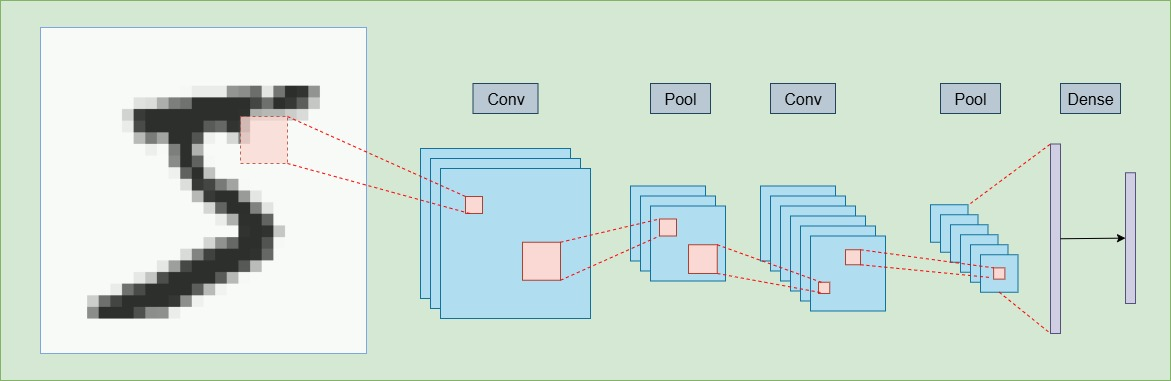
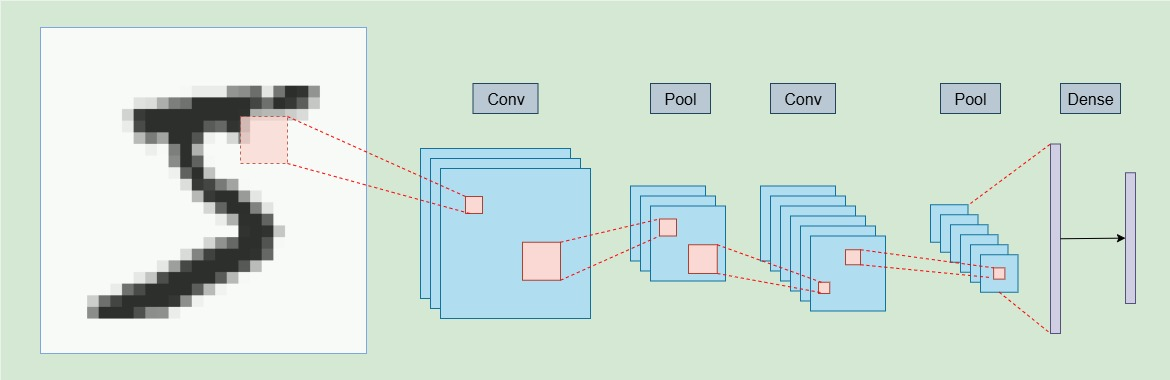
Transformer introduction

diff --git a/docs/trans_transformer.html b/docs/trans_transformer.html
@@ -8,6 +8,14 @@
     <title>Translate text with Transformer</title>
     <link href="https://cdn.jsdelivr.net/npm/bootstrap@5.3.0/dist/css/bootstrap.min.css" rel="stylesheet">
     <link href="article_style.css" rel="stylesheet">
+    <style>
+        .image-container img {
+            display: inline-block;
+            width: 300px;
+            margin-right: 10px;
+            vertical-align: middle;
+        }
+  </style>
 </head>
 
 <body>
@@ -24,11 +32,14 @@
 
                 <p>This tutorial demonstrates how to create and train a sequence-to-sequence Transformer model to translate Portuguese into English. The Transformer was originally proposed in <a href="transformer_paper.html">"Attention is all you need"</a> by Vaswani et al. (2017).</p>
 
-                <p>Transformers are deep neural networks that replace CNNs and RNNs with self-attention. Self-attention allows Transformers to easily transmit information across the input sequences.</p>
+                <p>Transformers are deep neural networks that replace CNNs and RNNs with <a href="trans_transformer.html#self-attention">self-attention</a> . Self-attention allows Transformers to easily transmit information across the input sequences.</p>
 
-                <p>As explained in the Google AI Blog post:</p>
+                <p>As explained in the <a href="https://research.google/blog/transformer-a-novel-neural-network-architecture-for-language-understanding/">Google AI Blog post</a> :</p>
 
                 <p class="comment">Neural networks for machine translation typically contain an encoder reading the input sentence and generating a representation of it. A decoder then generates the output sentence word by word while consulting the representation generated by the encoder. The Transformer starts by generating initial representations, or embeddings, for each word... Then, using self-attention, it aggregates information from all of the other words, generating a new representation per word informed by the entire context, represented by the filled balls. This step is then repeated multiple times in parallel for all words, successively generating new representations.</p>
+
+                <img src="res/07/transform20fps.gif" alt="Applying the Transformer to Machine Translation" width="600">
+                <p style="text-align: center; color: #555555;">Figure 1 - Applying the Transformer to Machine Translation</p>
 
                 <p>That's a lot to digest, the goal of this tutorial is to break it down into easy to understand parts. In this tutorial you will:</p>
 
@@ -40,19 +51,29 @@
                     <li><p>Export the model.</p></li>
                 </ul>
 
-                <p>To get the most out of this tutorial, it helps if you know about the basics of text generation and attention mechanisms.</p>
+                <p>To get the most out of this tutorial, it helps if you know about <a href="lstm_and_gru.html#language_model">the basics of text generation</a> and attention mechanisms.</p>
 
-                <p>A Transformer is a sequence-to-sequence encoder-decoder model similar to the model in the NMT with attention tutorial. A single-layer Transformer takes a little more code to write, but is almost identical to that encoder-decoder RNN model. The only difference is that the RNN layers are replaced with self-attention layers. This tutorial builds a 4-layer Transformer which is larger and more powerful, but not fundamentally more complex.</p>
+                <p>A Transformer is a sequence-to-sequence encoder-decoder model similar to the model in the <a href="nmt_align.html">NMT with attention tutorial</a> . A single-layer Transformer takes a little more code to write, but is almost identical to that encoder-decoder RNN model. The only difference is that the RNN layers are replaced with self-attention layers. This tutorial builds a 4-layer Transformer which is larger and more powerful, but not fundamentally more complex.</p>
+
+                <div class="image-container" style="text-align: center;">
+                    <img src="res/07/rnn_attention_words.png" alt="The RNN+Attention Model">
+                    <img src="res/07/trans_1layer_words.png" alt="A 1-layer Transformer">
+                </div>
+                <p style="text-align: center; color: #555555;">Figure 2 - The RNN+Attention Model<span style="margin: 0 30px;">|</span>A 1-layer Transformer</p>
 
                 <p>After training the model in this notebook, you will be able to input a Portuguese sentence and return the English translation.</p>
+                <img src="res/07/attention_map_pt.png" alt="Attention Map Portuguese" width="600">
+                <p style="text-align: center; color: #555555;">Figure 3 - Visualized Attention Weights</p>
 
                 <p>Why Transformers are significant:</p>
                 <ul class="with-bullets">
                     <li><p>Transformers excel at modeling sequential data, such as natural language.</p></li>
-                    <li><p>Unlike recurrent neural networks (RNNs), Transformers are parallelizable. This makes them efficient on hardware like GPUs and TPUs. The main reasons is that Transformers replaced recurrence with attention, and computations can happen simultaneously. Layer outputs can be computed in parallel, instead of a series like an RNN.</p></li>
+                    <li><p>Unlike <a href="rnn_classify_scratch.html">recurrent neural networks (RNNs)</a> , Transformers are parallelizable. This makes them efficient on hardware like GPUs and TPUs. The main reasons is that Transformers replaced recurrence with attention, and computations can happen simultaneously. Layer outputs can be computed in parallel, instead of a series like an RNN.</p></li>
                     <li><p>Unlike RNNs (such as seq2seq, 2014) or convolutional neural networks (CNNs) (for example, ByteNet), Transformers are able to capture distant or long-range contexts and dependencies in the data between distant positions in the input or output sequences. Thus, longer connections can be learned. Attention allows each location to have access to the entire input at each layer, while in RNNs and CNNs, the information needs to pass through many processing steps to move a long distance, which makes it harder to learn.</p></li>
-                    <li><p>Transformers make no assumptions about the temporal/spatial relationships across the data. This is ideal for processing a set of objects (for example, StarCraft units).</p></li>
+                    <li><p>Transformers make no assumptions about the temporal/spatial relationships across the data. This is ideal for processing a set of objects (for example, <a href="https://deepmind.google/discover/blog/alphastar-mastering-the-real-time-strategy-game-starcraft-ii/">StarCraft</a> units).</p></li>
                 </ul>
+                <img src="res/07/self_attention_demo.png" alt="Self-attention Distribution" width="600">
+                <p style="text-align: center; color: #555555;">Figure 4 - The Encoder Self-attention Distribution for the Word "it"</p>
 
                 <h3>7.1.1 Data Handling</h3>
                 <p>This section downloads the dataset and the subword tokenizer, from this tutorial, then wraps it all up in a <code></code> for training.</p>

diff --git a/docs/transformer_paper.html b/docs/transformer_paper.html
@@ -138,7 +138,7 @@
                 <p>where \(pos\) is the position and \(i\) is the dimension. That is, each dimension of the positional encoding corresponds to a sinusoid. The wavelengths form a geometric progression from \(2\pi\) to \(10000 \cdot 2\pi\). We chose this function because we hypothesized it would allow the model to easily learn to attend by relative positions, since for any fixed offset \(k\), \({PE}_{pos+k}\) can be represented as a linear function of \({PE}_{pos}\).</p>
                 <p>We also experimented with using learned positional embeddings instead, and found that the two versions produced nearly identical results (see Table 3 row (E)). We chose the sinusoidal version because it may allow the model to extrapolate to sequence lengths longer than the ones encountered during training.</p>
 
-                <h3>5.2.4 Why Self-Attention</h3>
+                <h3 id="self-attention">5.2.4 Why Self-Attention</h3>
                 <p>In this section we compare various aspects of self-attention layers to the recurrent and convolutional layers commonly used for mapping one variable-length sequence of symbol representations \((x_1, \cdots, x_n)\) to another sequence of equal length \((z_1, \cdots, z_n)\), with \(x_i, z_i \in \mathbb{R}^d\), such as a hidden layer in a typical sequence transduction encoder or decoder. Motivating our use of self-attention we consider three desiderata.</p>
                 <p>One is the total computational complexity per layer. Another is the amount of computation that can be parallelized, as measured by the minimum number of sequential operations required.</p>
 
